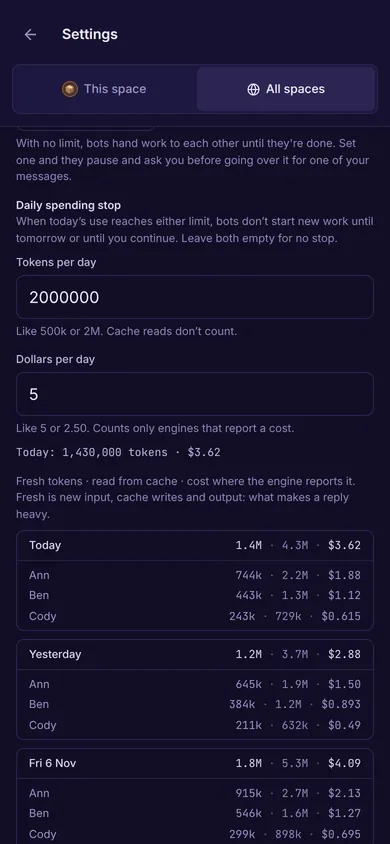
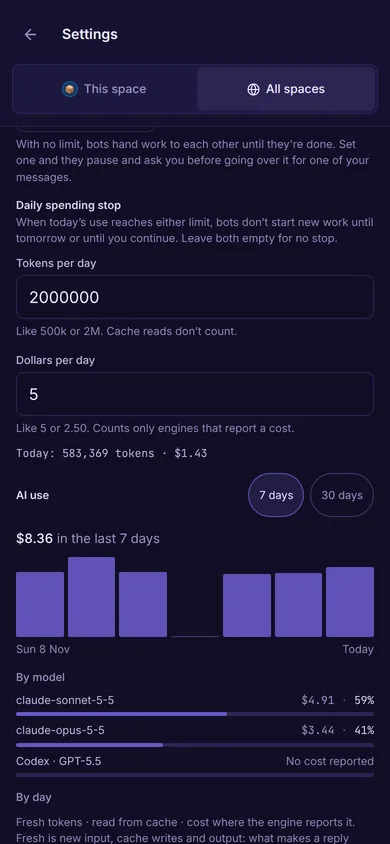
kwant.si: 0.9.9 shots (#616)
kwant.si for 0.9.9, on top of main a59a32b (the release commit, tag
mac-v0.9.9).

**Features, New in 0.9.9:** 3 rows with pictures: v099-browser-panel,
v099-usage-history, v099-routines-setup.

**Home:** the strip is now "Added in 0.9.9" with 3 thumbs.

**Media:** Pixel shot it on the mock forge only; files and manifest in
`/home/maus/shared/ship-software-safely/site-099-media/` (26 new, 14
re-shot).

Pixel shot 0.9.9 on the mock-forge rig from the CI build of release
commit a59a32b (kwnt --version 0.9.9): 3 feature rows (browser-panel,
usage-history, routines-setup), each with phone and thumb crops, plus
v099-browser-panel-finished, v099-usage-history-30,
v099-routines-setup-form and the v099-update-off-race-card close-up.
Re-shot under their old names: v2-routines (#591), v074-spend-stop
(#592) and v096-real-chrome-signin (#588). Mira's design-check fixes
(two rounds, FIX) are applied (site-099-media/manifest.md).

Skipped: no clips this release (the brief listed none, so browser-panel
is a still instead of a clip), no thumb for update-off-race (fix only,
close-up card only), and older shots that show the browser panel,
routines or AI use only in passing.

**Tested:** build_site.py, check_site.py (checked 37 pages, 36 sitemap
URLs), site_release_gate.py (kwant.si, README.md and What's new cover
0.9.9), design pass PASS 0.9.9: 0 fail, 5 warn ->
/home/maus/shared/ship-software-safely/kwant-site/099/design-site-pr/report.md.
[…]

diff --git a/site/features.html b/site/features.html
@@ -107,10 +107,28 @@
       <h2>A browser panel that follows your bot, and AI use over 7 or 30 days, by model</h2>
       <p>The browser panel opens when your bot browses and lists the pages it opened. See your AI use for 7 or 30 days, day by day and by model. Routines open from the sidebar, with a Weekdays chip and schedules in words.</p>
     </div>
+    <div class="row">
+      <div class="row-copy">
+        <h3 id="browser-panel">A browser panel that follows your bot</h3>
+        <p>When a bot opens a page in its browser, the panel opens by itself, with the bot's name, a <strong>Browsing now</strong> or <strong>Finished</strong> line and a Live pill, and closes again shortly after the bot is done, unless you used it. <strong>Pages this reply</strong> lists each page the reply opened, by title, with <strong>Now</strong> on the current one. A chip on the reply, like <strong>Ben opened 2 pages</strong>, reopens it; on a phone it opens as a sheet. <strong>Point</strong> and <strong>Take over</strong> sit under the preview, and <strong>Enlarge</strong> shows the page bigger, view only.</p>
+      </div>
+      <div class="frame"><a class="zoom" href="assets/media/v099-browser-panel-2880.webp?v=5a7a9ced2b" data-caption="Ben is working on &quot;Can you compare our two tents on the shop and check both pages are right?&quot;. The chip &quot;Ben is on shop.example.com · 2 pages&quot; sits in the reply&#x27;s steps. Ben&#x27;s browser panel opened by itself on the right: &quot;Browsing now&quot;, a Live pill on the Summit 3P Tent page, and &quot;Pages this reply · 2&quot; with Summit 3P Tent marked Now."><img class="app" src="assets/media/v099-browser-panel-1440.webp?v=49ff7edd72" srcset="assets/media/v099-browser-panel-1440.webp?v=49ff7edd72 1440w, assets/media/v099-browser-panel-2880.webp?v=5a7a9ced2b 2880w" sizes="(max-width: 1024px) 100vw, 680px" width="1440" height="900" loading="lazy" decoding="async" alt="Ben is working on &quot;Can you compare our two tents on the shop and check both pages are right?&quot;. The chip &quot;Ben is on shop.example.com · 2 pages&quot; sits in the reply&#x27;s steps. Ben&#x27;s browser panel opened by itself on the right: &quot;Browsing now&quot;, a Live pill on the Summit 3P Tent page, and &quot;Pages this reply · 2&quot; with Summit 3P Tent marked Now."></a></div>
+    </div>
+    <div class="row">
+      <div class="row-copy">
+        <h3 id="usage-history">AI use over 7 or 30 days, by model</h3>
+        <p><strong>AI use</strong> in Settings › All spaces › Usage switches between <strong>7 days</strong> and <strong>30 days</strong>: the total, a bar for each day (a quiet day shows as a gap), and <strong>By model</strong>, each model's share. When no model reported a cost, it counts fresh tokens instead.</p>
+      </div>
+      <div class="frame"><a class="zoom" href="assets/media/v099-usage-history-2880.webp?v=279aa7fcb2" data-caption="Settings › AI use at 7 days: &quot;$8.36 in the last 7 days&quot;, a bar per day from Sun 8 Nov to today with one quiet day, and a hovered bar reading &quot;Yesterday: $1.31&quot;. Below are By model (claude-sonnet-5-5 $4.91 59%, claude-opus-5-5 $3.44 41%, Codex · GPT-5.5 &quot;No cost reported&quot;) and By day, which shows fresh tokens, cache reads and cost per bot."><img class="app" src="assets/media/v099-usage-history-1440.webp?v=e6ebf36bdb" srcset="assets/media/v099-usage-history-1440.webp?v=e6ebf36bdb 1440w, assets/media/v099-usage-history-2880.webp?v=279aa7fcb2 2880w" sizes="(max-width: 1024px) 100vw, 680px" width="1440" height="900" loading="lazy" decoding="async" alt="Settings › AI use at 7 days: &quot;$8.36 in the last 7 days&quot;, a bar per day from Sun 8 Nov to today with one quiet day, and a hovered bar reading &quot;Yesterday: $1.31&quot;. Below are By model (claude-sonnet-5-5 $4.91 59%, claude-opus-5-5 $3.44 41%, Codex · GPT-5.5 &quot;No cost reported&quot;) and By day, which shows fresh tokens, cache reads and cost per bot."></a></div>
+    </div>
+    <div class="row">
+      <div class="row-copy">
+        <h3 id="routines-setup">Routines are easier to set up</h3>
+        <p>The sidebar has a <strong>Routines</strong> row. With none yet, one card explains what a routine is. The form gives examples, shows your time zone in one line (<strong>Kyiv time GMT+2</strong>), and a weekly routine has a <strong>Weekdays</strong> chip. Each card shows the first line of its instructions, when it runs next, and its schedule in words, like <strong>Weekdays at 08:30, Kyiv time</strong>.</p>
+      </div>
+      <div class="frame"><a class="zoom" href="assets/media/v099-routines-setup-2880.webp?v=ba42b66b49" data-caption="Settings › Routines for Trailhead Outfitters with three cards. Competitor prices is OK, next run Mon, Nov 16, 08:30 AM, &quot;Weekdays at 08:30, Kyiv time · Ben · direct chat&quot;. Size chart sync is Failed, running every day at 07:00 with Ann. Shipping recap is switched off and Paused, every Monday at 09:00 with Cody. Each card has Run now, History, Edit and Delete, and Suggested routines sits below."><img class="app" src="assets/media/v099-routines-setup-1440.webp?v=1fc909476a" srcset="assets/media/v099-routines-setup-1440.webp?v=1fc909476a 1440w, assets/media/v099-routines-setup-2880.webp?v=ba42b66b49 2880w" sizes="(max-width: 1024px) 100vw, 680px" width="1440" height="900" loading="lazy" decoding="async" alt="Settings › Routines for Trailhead Outfitters with three cards. Competitor prices is OK, next run Mon, Nov 16, 08:30 AM, &quot;Weekdays at 08:30, Kyiv time · Ben · direct chat&quot;. Size chart sync is Failed, running every day at 07:00 with Ann. Shipping recap is switched off and Paused, every Monday at 09:00 with Cody. Each card has Run now, History, Edit and Delete, and Suggested routines sits below."></a></div>
+    </div>
     <ul class="flist">
-      <li id="browser-panel" class="span3"><h3>A browser panel that follows your bot</h3><p>When a bot opens a page in its browser, the panel opens by itself, with the bot's name, a <strong>Browsing now</strong> or <strong>Finished</strong> line and a Live pill, and closes again shortly after the bot is done, unless you used it. <strong>Pages this reply</strong> lists each page the reply opened, by title, with <strong>Now</strong> on the current one. A chip on the reply, like <strong>Ben opened 2 pages</strong>, reopens it; on a phone it opens as a sheet. <strong>Point</strong> and <strong>Take over</strong> sit under the preview, and <strong>Enlarge</strong> shows the page bigger, view only.</p></li>
-      <li id="usage-history" class="span3"><h3>AI use over 7 or 30 days, by model</h3><p><strong>AI use</strong> in Settings › All spaces › Usage switches between <strong>7 days</strong> and <strong>30 days</strong>: the total, a bar for each day (a quiet day shows as a gap), and <strong>By model</strong>, each model's share. When no model reported a cost, it counts fresh tokens instead.</p></li>
-      <li id="routines-setup" class="span3"><h3>Routines are easier to set up</h3><p>The sidebar has a <strong>Routines</strong> row. With none yet, one card explains what a routine is. The form gives examples, shows your time zone in one line (<strong>Kyiv time GMT+2</strong>), and a weekly routine has a <strong>Weekdays</strong> chip. Each card shows the first line of its instructions, when it runs next, and its schedule in words, like <strong>Weekdays at 08:30, Kyiv time</strong>.</p></li>
       <li id="fixes-099" class="span3"><h3>Smaller changes in 0.9.9</h3><p>Update checks are ready at launch; Settings asks again and links to the latest release. Tool server names are unique regardless of case. Chrome start-up errors lead with the real cause.</p></li>
     </ul>
   </div>
@@ -246,7 +264,7 @@
         <h3 id="real-chrome">Sign in to Google in kwant's Chrome</h3>
         <p>kwant's Chrome now tells sites it is Chrome, with Chrome's own version details, and no longer marks itself as automated. It prefers an installed Google Chrome over Chromium, and nothing is injected into pages. Google still refuses sign-ins in a Chrome without a window, so the live view then says "Google only allows sign-in in a normal Chrome window." with <strong>Sign in in Chrome</strong>. On a computer with a screen, that opens Chrome in a window for the sign-in, and it goes back to no window once you're signed in. <a href="/docs/browser">Browser</a></p>
       </div>
-      <div class="frame"><a class="zoom" href="assets/media/v096-real-chrome-signin-2880.webp?v=f137bde2b5" data-caption="Ben&#x27;s chat with the bot browser on a Google sign-in refusal page, and the notice that Google only allows sign-in in a normal Chrome window, with Sign in in Chrome."><img class="app" src="assets/media/v096-real-chrome-signin-1440.webp?v=551aef2d57" srcset="assets/media/v096-real-chrome-signin-1440.webp?v=551aef2d57 1440w, assets/media/v096-real-chrome-signin-2880.webp?v=f137bde2b5 2880w" sizes="(max-width: 1024px) 100vw, 680px" width="1440" height="900" loading="lazy" decoding="async" alt="Ben&#x27;s chat with the bot browser on a Google sign-in refusal page, and the notice that Google only allows sign-in in a normal Chrome window, with Sign in in Chrome."></a></div>
+      <div class="frame"><a class="zoom" href="assets/media/v096-real-chrome-signin-2880.webp?v=5092e433f7" data-caption="Ben&#x27;s chat with the bot browser on a Google sign-in refusal page, and the notice that Google only allows sign-in in a normal Chrome window, with Sign in in Chrome."><img class="app" src="assets/media/v096-real-chrome-signin-1440.webp?v=6f375400dc" srcset="assets/media/v096-real-chrome-signin-1440.webp?v=6f375400dc 1440w, assets/media/v096-real-chrome-signin-2880.webp?v=5092e433f7 2880w" sizes="(max-width: 1024px) 100vw, 680px" width="1440" height="900" loading="lazy" decoding="async" alt="Ben&#x27;s chat with the bot browser on a Google sign-in refusal page, and the notice that Google only allows sign-in in a normal Chrome window, with Sign in in Chrome."></a></div>
     </div>
     <ul class="flist">
       <li id="fixes-096" class="span3"><h3>Smaller changes in 0.9.6</h3><p>A new space's Get started card names that space's own bots (<strong>Keep the bots you have</strong>) instead of the main space's starter bots. If kwant's Chrome closes right after it starts, you're told why at once, with Chrome's last lines. A mission task that finds the browser busy tries again twice by itself.</p></li>
@@ -573,7 +591,7 @@
         <div class="card-body"><h3>Use kwant from your coding agent</h3><p>Claude Code, Codex, Cursor and other MCP clients can ask your bots for work and get the reply back where you're coding. Each connection has its own token, shown once, reaches only the spaces and bots you pick, and is revoked at once. The agent is never you: it can't approve anything, and its token opens nothing else in kwant. <a href="/docs/agents-connect">Connect one</a></p></div>
       </article>
       <article class="card" id="spend-stop">
-        <span class="shot"><a class="zoom" href="assets/media/v074-spend-stop-card-2880.webp?v=4b3f0d6864" data-caption="Settings, Usage. The daily spending stop is set to 2,000,000 tokens and 5 dollars a day. Today&#x27;s use is 1.43 million tokens and 3.62 dollars, broken down by bot for each day."><img class="app" src="assets/media/v074-spend-stop-card-1440.webp?v=11d586298b" srcset="assets/media/v074-spend-stop-card-1440.webp?v=11d586298b 1440w, assets/media/v074-spend-stop-card-2880.webp?v=4b3f0d6864 2880w" sizes="(max-width: 720px) 100vw, (max-width: 1024px) 50vw, 570px" width="1440" height="900" loading="lazy" decoding="async" alt="Settings, Usage. The daily spending stop is set to 2,000,000 tokens and 5 dollars a day. Today&#x27;s use is 1.43 million tokens and 3.62 dollars, broken down by bot for each day."></a></span>
+        <span class="shot"><a class="zoom" href="assets/media/v074-spend-stop-card-2880.webp?v=3d44221c03" data-caption="Settings, Usage. The daily spending stop is set to 2,000,000 tokens and 5 dollars a day. Today&#x27;s use is 1.43 million tokens and 3.62 dollars, broken down by bot for each day."><img class="app" src="assets/media/v074-spend-stop-card-1440.webp?v=d0eeaec19e" srcset="assets/media/v074-spend-stop-card-1440.webp?v=d0eeaec19e 1440w, assets/media/v074-spend-stop-card-2880.webp?v=3d44221c03 2880w" sizes="(max-width: 720px) 100vw, (max-width: 1024px) 50vw, 570px" width="1440" height="900" loading="lazy" decoding="async" alt="Settings, Usage. The daily spending stop is set to 2,000,000 tokens and 5 dollars a day. Today&#x27;s use is 1.43 million tokens and 3.62 dollars, broken down by bot for each day."></a></span>
         <div class="card-body"><h3>A daily spending stop</h3><p><strong>Settings → All spaces → Usage</strong> can cap what all bots together use in a day, in tokens, dollars or both, right next to today's use. Both are off until you set them. Past the cap no new work starts, from a chat, a hand-off, a routine, a mission or a coding agent; work already running finishes. <a href="/docs/mission-board#spend-stop">How the stop works</a></p></div>
       </article>
       <article class="card" id="forge-reviews">
@@ -1226,7 +1244,7 @@
     </div>
     <div class="grid two">
       <article class="card">
-        <span class="shot"><a class="zoom" href="assets/media/v2-routines-2880.webp?v=a3dc554670" data-caption="Settings, Routines: suggested routines, with none right now, then a Monday metrics digest, a paused competitor price scan whose last run failed and a weekday morning release check, each with Run now, History, Edit and Delete."><img class="app" src="assets/media/v2-routines-1440.webp?v=e0daaabd4b" srcset="assets/media/v2-routines-1440.webp?v=e0daaabd4b 1440w, assets/media/v2-routines-2880.webp?v=a3dc554670 2880w" sizes="(max-width: 720px) 100vw, (max-width: 1024px) 50vw, 570px" width="1440" height="900" loading="lazy" decoding="async" alt="Settings, Routines: suggested routines, with none right now, then a Monday metrics digest, a paused competitor price scan whose last run failed and a weekday morning release check, each with Run now, History, Edit and Delete."></a></span>
+        <span class="shot"><a class="zoom" href="assets/media/v2-routines-2880.webp?v=d205e2ee27" data-caption="Settings, Routines: suggested routines, with none right now, then a Monday metrics digest, a paused competitor price scan whose last run failed and a weekday morning release check, each with Run now, History, Edit and Delete."><img class="app" src="assets/media/v2-routines-1440.webp?v=b49e2c3d16" srcset="assets/media/v2-routines-1440.webp?v=b49e2c3d16 1440w, assets/media/v2-routines-2880.webp?v=d205e2ee27 2880w" sizes="(max-width: 720px) 100vw, (max-width: 1024px) 50vw, 570px" width="1440" height="900" loading="lazy" decoding="async" alt="Settings, Routines: suggested routines, with none right now, then a Monday metrics digest, a paused competitor price scan whose last run failed and a weekday morning release check, each with Run now, History, Edit and Delete."></a></span>
         <div class="card-body"><h3>Routines</h3><p>Once, daily, weekly, monthly, every few minutes or hours, or a cron rule. Run now, history and pause for each.</p></div>
       </article>
       <article class="card">
@@ -1467,7 +1485,7 @@
 </footer>
 <script src="assets/js/site.js?v=6d3de1ef56" defer></script>
 <script src="assets/js/pixel.js?v=ce88473d7b" defer></script>
-<script type="application/ld+json">{"@context":"https://schema.org","@graph":[{"@type":"WebPage","@id":"https://kwant.si/features","name":"Features: self-hosted AI agent orchestration","description":"Teams and @mention handoffs, Dev mode code review, the Idea jar, Smart Results, Goals, model failover across accounts, spaces, routines, approvals, memory, skills, MCP tools and a bot browser.","url":"https://kwant.si/features","image":"https://kwant.si/assets/og/features.png?v=6c9323bb00","inLanguage":"en","dateModified":"2026-11-13","about":{"@id":"https://kwant.si/#app"},"isPartOf":{"@id":"https://kwant.si/#website"}},{"@type":"BreadcrumbList","itemListElement":[{"@type":"ListItem","position":1,"name":"kwant","item":"https://kwant.si/"},{"@type":"ListItem","position":2,"name":"Features","item":"https://kwant.si/features"}]}]}</script>
+<script type="application/ld+json">{"@context":"https://schema.org","@graph":[{"@type":"WebPage","@id":"https://kwant.si/features","name":"Features: self-hosted AI agent orchestration","description":"Teams and @mention handoffs, Dev mode code review, the Idea jar, Smart Results, Goals, model failover across accounts, spaces, routines, approvals, memory, skills, MCP tools and a bot browser.","url":"https://kwant.si/features","image":"https://kwant.si/assets/og/features.png?v=6c9323bb00","inLanguage":"en","dateModified":"2026-11-14","about":{"@id":"https://kwant.si/#app"},"isPartOf":{"@id":"https://kwant.si/#website"}},{"@type":"BreadcrumbList","itemListElement":[{"@type":"ListItem","position":1,"name":"kwant","item":"https://kwant.si/"},{"@type":"ListItem","position":2,"name":"Features","item":"https://kwant.si/features"}]}]}</script>
 <!-- Cloudflare Web Analytics --><script defer src='https://static.cloudflareinsights.com/beacon.min.js' data-cf-beacon='{"token": "7f6ed395033a43eea3885ad0943890c2"}'></script><!-- End Cloudflare Web Analytics -->
 </body>
 </html>

diff --git a/site/index.html b/site/index.html
@@ -108,14 +108,13 @@
 
 <section class="new-strip new-shots" aria-labelledby="new-title">
   <div class="wrap">
-    <h2 id="new-title" class="new-title">Added in 0.9.8</h2>
+    <h2 id="new-title" class="new-title">Added in 0.9.9</h2>
     <ul class="new-list">
-      <li><a href="/features#first-screen"><img src="assets/media/thumb-v098-first-screen-640.webp?v=490c26a29c" srcset="assets/media/thumb-v098-first-screen-640.webp?v=490c26a29c 640w, assets/media/thumb-v098-first-screen-1280.webp?v=731f8c01d9 1280w" sizes="(max-width: 640px) 112px, (max-width: 1000px) 50vw, 290px" width="640" height="400" loading="lazy" decoding="async" alt=""><b>A first screen for anyone</b><span>A fresh install starts with a small team and asks what you want done.</span></a></li>
-      <li><a href="/features#done-check"><img src="assets/media/thumb-v098-done-check-640.webp?v=082cd87705" srcset="assets/media/thumb-v098-done-check-640.webp?v=082cd87705 640w, assets/media/thumb-v098-done-check-1280.webp?v=df39259b3c 1280w" sizes="(max-width: 640px) 112px, (max-width: 1000px) 50vw, 290px" width="640" height="400" loading="lazy" decoding="async" alt=""><b>Done, and here's the check</b><span>A done item says what checked it, and says so when nothing did.</span></a></li>
-      <li><a href="/features#prepush-grant"><img src="assets/media/thumb-v098-prepush-grant-640.webp?v=4933f2824d" srcset="assets/media/thumb-v098-prepush-grant-640.webp?v=4933f2824d 640w, assets/media/thumb-v098-prepush-grant-1280.webp?v=7f64b28764 1280w" sizes="(max-width: 640px) 112px, (max-width: 1000px) 50vw, 290px" width="640" height="400" loading="lazy" decoding="async" alt=""><b>Try again lets the push go</b><span>Ask a bot to try again, and its clean push goes with no second card.</span></a></li>
-      <li><a href="/features#waiting-checks"><img src="assets/media/thumb-v098-waiting-check-640.webp?v=5dd86eddd6" srcset="assets/media/thumb-v098-waiting-check-640.webp?v=5dd86eddd6 640w, assets/media/thumb-v098-waiting-check-1280.webp?v=a4395ca220 1280w" sizes="(max-width: 640px) 112px, (max-width: 1000px) 50vw, 290px" width="640" height="400" loading="lazy" decoding="async" alt=""><b>Checks that wait</b><span>A check can wait for an outside service without spending bot turns.</span></a></li>
+      <li><a href="/features#browser-panel"><img src="assets/media/thumb-v099-browser-panel-640.webp?v=58f45923be" srcset="assets/media/thumb-v099-browser-panel-640.webp?v=58f45923be 640w, assets/media/thumb-v099-browser-panel-1280.webp?v=fec5c41a4d 1280w" sizes="(max-width: 640px) 112px, (max-width: 1000px) 50vw, 290px" width="640" height="400" loading="lazy" decoding="async" alt=""><b>A browser panel that follows your bot</b><span>The browser panel opens when your bot browses and lists the pages it opened.</span></a></li>
+      <li><a href="/features#usage-history"><img src="assets/media/thumb-v099-usage-history-640.webp?v=cd91477253" srcset="assets/media/thumb-v099-usage-history-640.webp?v=cd91477253 640w, assets/media/thumb-v099-usage-history-1280.webp?v=bb99180db0 1280w" sizes="(max-width: 640px) 112px, (max-width: 1000px) 50vw, 290px" width="640" height="400" loading="lazy" decoding="async" alt=""><b>AI use over 7 or 30 days</b><span>See your AI use for 7 or 30 days, day by day and by model.</span></a></li>
+      <li><a href="/features#routines-setup"><img src="assets/media/thumb-v099-routines-setup-640.webp?v=a6f6248553" srcset="assets/media/thumb-v099-routines-setup-640.webp?v=a6f6248553 640w, assets/media/thumb-v099-routines-setup-1280.webp?v=ebbc163804 1280w" sizes="(max-width: 640px) 112px, (max-width: 1000px) 50vw, 290px" width="640" height="400" loading="lazy" decoding="async" alt=""><b>Routines are easier to set up</b><span>Routines open from the sidebar, with a Weekdays chip and schedules in words.</span></a></li>
     </ul>
-    <p class="new-note">Also new: <a href="/features#waiting-state">Waiting for you</a>, <a href="/features#routine-row">Routine rows</a>, <a href="/features#mention-order">@mentions go next</a>, and <a href="/features#fixes-098">smaller fixes</a>. <a href="/features#new-099">What's new in 0.9.9</a> · <a href="/features#new-098">in 0.9.8</a> · <a href="/features#new-097">in 0.9.7</a> · <a href="/features#new-096">in 0.9.6</a> · <a href="/features#new-095">in 0.9.5</a> · <a href="/features#fixes-094">in 0.9.4</a> · <a href="/features#fixes-093">in 0.9.3</a> · <a href="/features#fixes-092">in 0.9.2</a> · <a href="/features#fixes-091">in 0.9.1</a> · <a href="/features#new-09">in 0.9.0</a> · <a href="/features#fixes-082">in 0.8.2</a> · <a href="/features#fixes-081">in 0.8.1</a> · <a href="/features#new-08">in 0.8.0</a> · <a href="/features#new-077">in 0.7.7</a> · <a href="/features#new-076">in 0.7.6</a> · <a href="/features#new-075">in 0.7.5</a> · <a href="/features#new-074">in 0.7.4</a> · <a href="/features#new-073">in 0.7.3</a> · <a href="/features#new-072">in 0.7.2</a> · <a href="/features#new-071">in 0.7.1</a> · <a href="/features#new-07">in 0.7</a> · <a href="/features#new-0611">in 0.6.11</a></p>
+    <p class="new-note">Also new: <a href="/features#fixes-099">smaller fixes</a>. <a href="/features#new-099">What's new in 0.9.9</a> · <a href="/features#new-098">in 0.9.8</a> · <a href="/features#new-097">in 0.9.7</a> · <a href="/features#new-096">in 0.9.6</a> · <a href="/features#new-095">in 0.9.5</a> · <a href="/features#fixes-094">in 0.9.4</a> · <a href="/features#fixes-093">in 0.9.3</a> · <a href="/features#fixes-092">in 0.9.2</a> · <a href="/features#fixes-091">in 0.9.1</a> · <a href="/features#new-09">in 0.9.0</a> · <a href="/features#fixes-082">in 0.8.2</a> · <a href="/features#fixes-081">in 0.8.1</a> · <a href="/features#new-08">in 0.8.0</a> · <a href="/features#new-077">in 0.7.7</a> · <a href="/features#new-076">in 0.7.6</a> · <a href="/features#new-075">in 0.7.5</a> · <a href="/features#new-074">in 0.7.4</a> · <a href="/features#new-073">in 0.7.3</a> · <a href="/features#new-072">in 0.7.2</a> · <a href="/features#new-071">in 0.7.1</a> · <a href="/features#new-07">in 0.7</a> · <a href="/features#new-0611">in 0.6.11</a></p>
   </div>
 </section>
 

diff --git a/site-src/index.html b/site-src/index.html
@@ -67,14 +67,13 @@ card_art: scene
 
 <section class="new-strip new-shots" aria-labelledby="new-title">
   <div class="wrap">
-    <h2 id="new-title" class="new-title">Added in 0.9.8</h2>
+    <h2 id="new-title" class="new-title">Added in 0.9.9</h2>
     <ul class="new-list">
-      <li><a href="features.html#first-screen"><img src="assets/media/thumb-v098-first-screen-640.webp" srcset="assets/media/thumb-v098-first-screen-640.webp 640w, assets/media/thumb-v098-first-screen-1280.webp 1280w" sizes="(max-width: 640px) 112px, (max-width: 1000px) 50vw, 290px" width="640" height="400" loading="lazy" decoding="async" alt=""><b>A first screen for anyone</b><span>A fresh install starts with a small team and asks what you want done.</span></a></li>
-      <li><a href="features.html#done-check"><img src="assets/media/thumb-v098-done-check-640.webp" srcset="assets/media/thumb-v098-done-check-640.webp 640w, assets/media/thumb-v098-done-check-1280.webp 1280w" sizes="(max-width: 640px) 112px, (max-width: 1000px) 50vw, 290px" width="640" height="400" loading="lazy" decoding="async" alt=""><b>Done, and here's the check</b><span>A done item says what checked it, and says so when nothing did.</span></a></li>
-      <li><a href="features.html#prepush-grant"><img src="assets/media/thumb-v098-prepush-grant-640.webp" srcset="assets/media/thumb-v098-prepush-grant-640.webp 640w, assets/media/thumb-v098-prepush-grant-1280.webp 1280w" sizes="(max-width: 640px) 112px, (max-width: 1000px) 50vw, 290px" width="640" height="400" loading="lazy" decoding="async" alt=""><b>Try again lets the push go</b><span>Ask a bot to try again, and its clean push goes with no second card.</span></a></li>
-      <li><a href="features.html#waiting-checks"><img src="assets/media/thumb-v098-waiting-check-640.webp" srcset="assets/media/thumb-v098-waiting-check-640.webp 640w, assets/media/thumb-v098-waiting-check-1280.webp 1280w" sizes="(max-width: 640px) 112px, (max-width: 1000px) 50vw, 290px" width="640" height="400" loading="lazy" decoding="async" alt=""><b>Checks that wait</b><span>A check can wait for an outside service without spending bot turns.</span></a></li>
+      <li><a href="features.html#browser-panel"><img src="assets/media/thumb-v099-browser-panel-640.webp" srcset="assets/media/thumb-v099-browser-panel-640.webp 640w, assets/media/thumb-v099-browser-panel-1280.webp 1280w" sizes="(max-width: 640px) 112px, (max-width: 1000px) 50vw, 290px" width="640" height="400" loading="lazy" decoding="async" alt=""><b>A browser panel that follows your bot</b><span>The browser panel opens when your bot browses and lists the pages it opened.</span></a></li>
+      <li><a href="features.html#usage-history"><img src="assets/media/thumb-v099-usage-history-640.webp" srcset="assets/media/thumb-v099-usage-history-640.webp 640w, assets/media/thumb-v099-usage-history-1280.webp 1280w" sizes="(max-width: 640px) 112px, (max-width: 1000px) 50vw, 290px" width="640" height="400" loading="lazy" decoding="async" alt=""><b>AI use over 7 or 30 days</b><span>See your AI use for 7 or 30 days, day by day and by model.</span></a></li>
+      <li><a href="features.html#routines-setup"><img src="assets/media/thumb-v099-routines-setup-640.webp" srcset="assets/media/thumb-v099-routines-setup-640.webp 640w, assets/media/thumb-v099-routines-setup-1280.webp 1280w" sizes="(max-width: 640px) 112px, (max-width: 1000px) 50vw, 290px" width="640" height="400" loading="lazy" decoding="async" alt=""><b>Routines are easier to set up</b><span>Routines open from the sidebar, with a Weekdays chip and schedules in words.</span></a></li>
     </ul>
-    <p class="new-note">Also new: <a href="features.html#waiting-state">Waiting for you</a>, <a href="features.html#routine-row">Routine rows</a>, <a href="features.html#mention-order">@mentions go next</a>, and <a href="features.html#fixes-098">smaller fixes</a>. <a href="features.html#new-099">What's new in 0.9.9</a> · <a href="features.html#new-098">in 0.9.8</a> · <a href="features.html#new-097">in 0.9.7</a> · <a href="features.html#new-096">in 0.9.6</a> · <a href="features.html#new-095">in 0.9.5</a> · <a href="features.html#fixes-094">in 0.9.4</a> · <a href="features.html#fixes-093">in 0.9.3</a> · <a href="features.html#fixes-092">in 0.9.2</a> · <a href="features.html#fixes-091">in 0.9.1</a> · <a href="features.html#new-09">in 0.9.0</a> · <a href="features.html#fixes-082">in 0.8.2</a> · <a href="features.html#fixes-081">in 0.8.1</a> · <a href="features.html#new-08">in 0.8.0</a> · <a href="features.html#new-077">in 0.7.7</a> · <a href="features.html#new-076">in 0.7.6</a> · <a href="features.html#new-075">in 0.7.5</a> · <a href="features.html#new-074">in 0.7.4</a> · <a href="features.html#new-073">in 0.7.3</a> · <a href="features.html#new-072">in 0.7.2</a> · <a href="features.html#new-071">in 0.7.1</a> · <a href="features.html#new-07">in 0.7</a> · <a href="features.html#new-0611">in 0.6.11</a></p>
+    <p class="new-note">Also new: <a href="features.html#fixes-099">smaller fixes</a>. <a href="features.html#new-099">What's new in 0.9.9</a> · <a href="features.html#new-098">in 0.9.8</a> · <a href="features.html#new-097">in 0.9.7</a> · <a href="features.html#new-096">in 0.9.6</a> · <a href="features.html#new-095">in 0.9.5</a> · <a href="features.html#fixes-094">in 0.9.4</a> · <a href="features.html#fixes-093">in 0.9.3</a> · <a href="features.html#fixes-092">in 0.9.2</a> · <a href="features.html#fixes-091">in 0.9.1</a> · <a href="features.html#new-09">in 0.9.0</a> · <a href="features.html#fixes-082">in 0.8.2</a> · <a href="features.html#fixes-081">in 0.8.1</a> · <a href="features.html#new-08">in 0.8.0</a> · <a href="features.html#new-077">in 0.7.7</a> · <a href="features.html#new-076">in 0.7.6</a> · <a href="features.html#new-075">in 0.7.5</a> · <a href="features.html#new-074">in 0.7.4</a> · <a href="features.html#new-073">in 0.7.3</a> · <a href="features.html#new-072">in 0.7.2</a> · <a href="features.html#new-071">in 0.7.1</a> · <a href="features.html#new-07">in 0.7</a> · <a href="features.html#new-0611">in 0.6.11</a></p>
   </div>
 </section>
 

diff --git a/site-src/features.html b/site-src/features.html
@@ -66,10 +66,28 @@ card_art: team
       <h2>A browser panel that follows your bot, and AI use over 7 or 30 days, by model</h2>
       <p>The browser panel opens when your bot browses and lists the pages it opened. See your AI use for 7 or 30 days, day by day and by model. Routines open from the sidebar, with a Weekdays chip and schedules in words.</p>
     </div>
+    <div class="row">
+      <div class="row-copy">
+        <h3 id="browser-panel">A browser panel that follows your bot</h3>
+        <p>When a bot opens a page in its browser, the panel opens by itself, with the bot's name, a <strong>Browsing now</strong> or <strong>Finished</strong> line and a Live pill, and closes again shortly after the bot is done, unless you used it. <strong>Pages this reply</strong> lists each page the reply opened, by title, with <strong>Now</strong> on the current one. A chip on the reply, like <strong>Ben opened 2 pages</strong>, reopens it; on a phone it opens as a sheet. <strong>Point</strong> and <strong>Take over</strong> sit under the preview, and <strong>Enlarge</strong> shows the page bigger, view only.</p>
+      </div>
+      <div class="frame">{{shot:v099-browser-panel|Ben is working on "Can you compare our two tents on the shop and check both pages are right?". The chip "Ben is on shop.example.com · 2 pages" sits in the reply's steps. Ben's browser panel opened by itself on the right: "Browsing now", a Live pill on the Summit 3P Tent page, and "Pages this reply · 2" with Summit 3P Tent marked Now.}}</div>
+    </div>
+    <div class="row">
+      <div class="row-copy">
+        <h3 id="usage-history">AI use over 7 or 30 days, by model</h3>
+        <p><strong>AI use</strong> in Settings › All spaces › Usage switches between <strong>7 days</strong> and <strong>30 days</strong>: the total, a bar for each day (a quiet day shows as a gap), and <strong>By model</strong>, each model's share. When no model reported a cost, it counts fresh tokens instead.</p>
+      </div>
+      <div class="frame">{{shot:v099-usage-history|Settings › AI use at 7 days: "$8.36 in the last 7 days", a bar per day from Sun 8 Nov to today with one quiet day, and a hovered bar reading "Yesterday: $1.31". Below are By model (claude-sonnet-5-5 $4.91 59%, claude-opus-5-5 $3.44 41%, Codex · GPT-5.5 "No cost reported") and By day, which shows fresh tokens, cache reads and cost per bot.}}</div>
+    </div>
+    <div class="row">
+      <div class="row-copy">
+        <h3 id="routines-setup">Routines are easier to set up</h3>
+        <p>The sidebar has a <strong>Routines</strong> row. With none yet, one card explains what a routine is. The form gives examples, shows your time zone in one line (<strong>Kyiv time GMT+2</strong>), and a weekly routine has a <strong>Weekdays</strong> chip. Each card shows the first line of its instructions, when it runs next, and its schedule in words, like <strong>Weekdays at 08:30, Kyiv time</strong>.</p>
+      </div>
+      <div class="frame">{{shot:v099-routines-setup|Settings › Routines for Trailhead Outfitters with three cards. Competitor prices is OK, next run Mon, Nov 16, 08:30 AM, "Weekdays at 08:30, Kyiv time · Ben · direct chat". Size chart sync is Failed, running every day at 07:00 with Ann. Shipping recap is switched off and Paused, every Monday at 09:00 with Cody. Each card has Run now, History, Edit and Delete, and Suggested routines sits below.}}</div>
+    </div>
     <ul class="flist">
-      <li id="browser-panel" class="span3"><h3>A browser panel that follows your bot</h3><p>When a bot opens a page in its browser, the panel opens by itself, with the bot's name, a <strong>Browsing now</strong> or <strong>Finished</strong> line and a Live pill, and closes again shortly after the bot is done, unless you used it. <strong>Pages this reply</strong> lists each page the reply opened, by title, with <strong>Now</strong> on the current one. A chip on the reply, like <strong>Ben opened 2 pages</strong>, reopens it; on a phone it opens as a sheet. <strong>Point</strong> and <strong>Take over</strong> sit under the preview, and <strong>Enlarge</strong> shows the page bigger, view only.</p></li>
-      <li id="usage-history" class="span3"><h3>AI use over 7 or 30 days, by model</h3><p><strong>AI use</strong> in Settings › All spaces › Usage switches between <strong>7 days</strong> and <strong>30 days</strong>: the total, a bar for each day (a quiet day shows as a gap), and <strong>By model</strong>, each model's share. When no model reported a cost, it counts fresh tokens instead.</p></li>
-      <li id="routines-setup" class="span3"><h3>Routines are easier to set up</h3><p>The sidebar has a <strong>Routines</strong> row. With none yet, one card explains what a routine is. The form gives examples, shows your time zone in one line (<strong>Kyiv time GMT+2</strong>), and a weekly routine has a <strong>Weekdays</strong> chip. Each card shows the first line of its instructions, when it runs next, and its schedule in words, like <strong>Weekdays at 08:30, Kyiv time</strong>.</p></li>
       <li id="fixes-099" class="span3"><h3>Smaller changes in 0.9.9</h3><p>Update checks are ready at launch; Settings asks again and links to the latest release. Tool server names are unique regardless of case. Chrome start-up errors lead with the real cause.</p></li>
     </ul>
   </div>

diff --git a/site/docs/mission-board.html b/site/docs/mission-board.html
@@ -121,7 +121,7 @@
 <h3 id="spend-stop">Daily spending stop</h3>
 <p>Since 0.7.4, <strong>Settings → All spaces → Usage</strong> can also cap what all bots together use in a day, in every space. <strong>Tokens per day</strong> counts fresh tokens: new input, cache writes and output, not cache reads. <strong>Dollars per day</strong> counts only engines that report a cost. Both start empty, which means no stop, until you set them, and today's use sits right under them, per day and per bot.</p>
 <figure>
-  <div class="frame"><a class="zoom" href="../assets/media/v074-spend-stop-2880.webp?v=516bcbffeb" data-caption="Settings, Usage. The daily spending stop is set to 2,000,000 tokens and 5 dollars a day. Today&#x27;s use is 1.43 million tokens and 3.62 dollars, broken down by bot for each day."><img class="app" src="../assets/media/v074-spend-stop-1440.webp?v=228dbb8bc5" srcset="../assets/media/v074-spend-stop-1440.webp?v=228dbb8bc5 1440w, ../assets/media/v074-spend-stop-2880.webp?v=516bcbffeb 2880w" sizes="(max-width: 860px) 100vw, 760px" width="1440" height="900" loading="lazy" decoding="async" alt="Settings, Usage. The daily spending stop is set to 2,000,000 tokens and 5 dollars a day. Today&#x27;s use is 1.43 million tokens and 3.62 dollars, broken down by bot for each day."></a></div>
+  <div class="frame"><a class="zoom" href="../assets/media/v074-spend-stop-2880.webp?v=94284a9fd4" data-caption="Settings, Usage. The daily spending stop is set to 2,000,000 tokens and 5 dollars a day. Today&#x27;s use is 1.43 million tokens and 3.62 dollars, broken down by bot for each day."><img class="app" src="../assets/media/v074-spend-stop-1440.webp?v=724f40c458" srcset="../assets/media/v074-spend-stop-1440.webp?v=724f40c458 1440w, ../assets/media/v074-spend-stop-2880.webp?v=94284a9fd4 2880w" sizes="(max-width: 860px) 100vw, 760px" width="1440" height="900" loading="lazy" decoding="async" alt="Settings, Usage. The daily spending stop is set to 2,000,000 tokens and 5 dollars a day. Today&#x27;s use is 1.43 million tokens and 3.62 dollars, broken down by bot for each day."></a></div>
   <figcaption>The two limits, next to what today has used so far.</figcaption>
 </figure>
 <p>Past either limit no new turn starts, whether from a message, a hand-off, a routine, a goal, a mission task, AutoFix or a <a href="/docs/agents-connect">coding agent</a>. Turns already running finish. Then:</p>
@@ -137,7 +137,7 @@
   <figcaption>One notice a day in the chat, with Continue today.</figcaption>
 </figure>
 <figure>
-  <div class="phone"><a class="zoom" href="../assets/media/phone-v074-spend-stop-780.webp?v=a4da28c916" data-caption="On a phone: Settings, All spaces, with the daily spending stop at 2,000,000 tokens and 5 dollars, and today&#x27;s use under it."><img src="../assets/media/phone-v074-spend-stop-390.webp?v=13a79b364d" srcset="../assets/media/phone-v074-spend-stop-390.webp?v=13a79b364d 390w, ../assets/media/phone-v074-spend-stop-780.webp?v=a4da28c916 780w" sizes="300px" width="390" height="844" loading="lazy" decoding="async" alt="On a phone: Settings, All spaces, with the daily spending stop at 2,000,000 tokens and 5 dollars, and today&#x27;s use under it."></a></div>
+  <div class="phone"><a class="zoom" href="../assets/media/phone-v074-spend-stop-780.webp?v=ee610227c4" data-caption="On a phone: Settings, All spaces, with the daily spending stop at 2,000,000 tokens and 5 dollars, and today&#x27;s use under it."><img src="../assets/media/phone-v074-spend-stop-390.webp?v=2b5dc35b94" srcset="../assets/media/phone-v074-spend-stop-390.webp?v=2b5dc35b94 390w, ../assets/media/phone-v074-spend-stop-780.webp?v=ee610227c4 780w" sizes="300px" width="390" height="844" loading="lazy" decoding="async" alt="On a phone: Settings, All spaces, with the daily spending stop at 2,000,000 tokens and 5 dollars, and today&#x27;s use under it."></a></div>
   <figcaption>The same limits on a phone.</figcaption>
 </figure>
 

diff --git a/site/docs/routines.html b/site/docs/routines.html
@@ -65,7 +65,7 @@
 <h2 id="routines">Routines</h2>
 <p>A routine sends a prompt to a bot on a schedule and posts the answer in a channel, the bot's direct chat or a thread. Create one with <strong>New routine</strong> in a bot's Routines tab or under <strong>Settings → This space → Routines</strong>, or ask a bot to do it.</p>
 <figure>
-  <div class="frame"><a class="zoom" href="../assets/media/v2-routines-2880.webp?v=a3dc554670" data-caption="Settings, Routines: suggested routines, with none right now, then a Monday metrics digest, a paused competitor price scan whose last run failed and a weekday morning release check, each with Run now, History, Edit and Delete."><img class="app" src="../assets/media/v2-routines-1440.webp?v=e0daaabd4b" srcset="../assets/media/v2-routines-1440.webp?v=e0daaabd4b 1440w, ../assets/media/v2-routines-2880.webp?v=a3dc554670 2880w" sizes="(max-width: 860px) 100vw, 760px" width="1440" height="900" loading="lazy" decoding="async" alt="Settings, Routines: suggested routines, with none right now, then a Monday metrics digest, a paused competitor price scan whose last run failed and a weekday morning release check, each with Run now, History, Edit and Delete."></a></div>
+  <div class="frame"><a class="zoom" href="../assets/media/v2-routines-2880.webp?v=d205e2ee27" data-caption="Settings, Routines: suggested routines, with none right now, then a Monday metrics digest, a paused competitor price scan whose last run failed and a weekday morning release check, each with Run now, History, Edit and Delete."><img class="app" src="../assets/media/v2-routines-1440.webp?v=b49e2c3d16" srcset="../assets/media/v2-routines-1440.webp?v=b49e2c3d16 1440w, ../assets/media/v2-routines-2880.webp?v=d205e2ee27 2880w" sizes="(max-width: 860px) 100vw, 760px" width="1440" height="900" loading="lazy" decoding="async" alt="Settings, Routines: suggested routines, with none right now, then a Monday metrics digest, a paused competitor price scan whose last run failed and a weekday morning release check, each with Run now, History, Edit and Delete."></a></div>
 </figure>
 <div class="table-wrap"><table>
   <thead><tr><th>Schedule</th><th>Runs</th></tr></thead>

diff --git a/scripts/build_site.py b/scripts/build_site.py
@@ -202,7 +202,8 @@ CLOSEUPS = {"v69-signin-card", "v69-working-card", "v611-reply-close", "v611-hum
             "v095-apps-accounts-tiles", "v095-budget-overview-card", "v095-bot-budget-card", "v095-tool-failure-line-card",
             "v096-real-chrome-signin-card",
             "v097-working-avatar-card",
-            "v098-done-check-card"}
+            "v098-done-check-card",
+            "v099-update-off-race-card"}
 
 
 def shot(root, name, alt, sizes):
